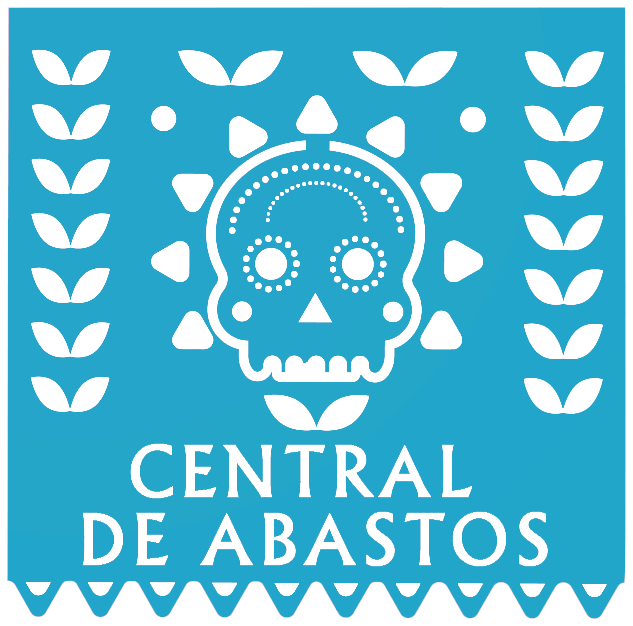
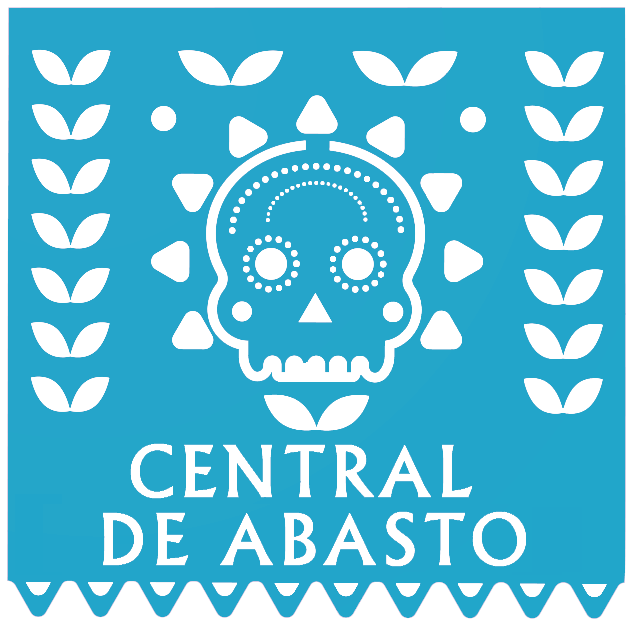
modificado papel de Central de Abasto y nombre de esta sede en la cartelera

Changed region(s): [[0.1201, 0.8195, 0.8705, 0.9105]]

diff --git a/js/calaveras/cartelera.js b/js/calaveras/cartelera.js
@@ -381,7 +381,7 @@ const cartelera = {
         }
     },
     "central": {
-        "sede": "Central de abastos",
+        "sede": "Central de abasto",
         "horarios": "de 12:00pm a 17:00pm",
         "direccion": "Av. Canal de Río Churubusco s/n Esq. Canal de Apatlaco, Col Central de Abastos, Alcaldía Iztapalapa, C.P. 09040",
         "mapOverview": "img/calaveras/mapaCentral.JPG",
